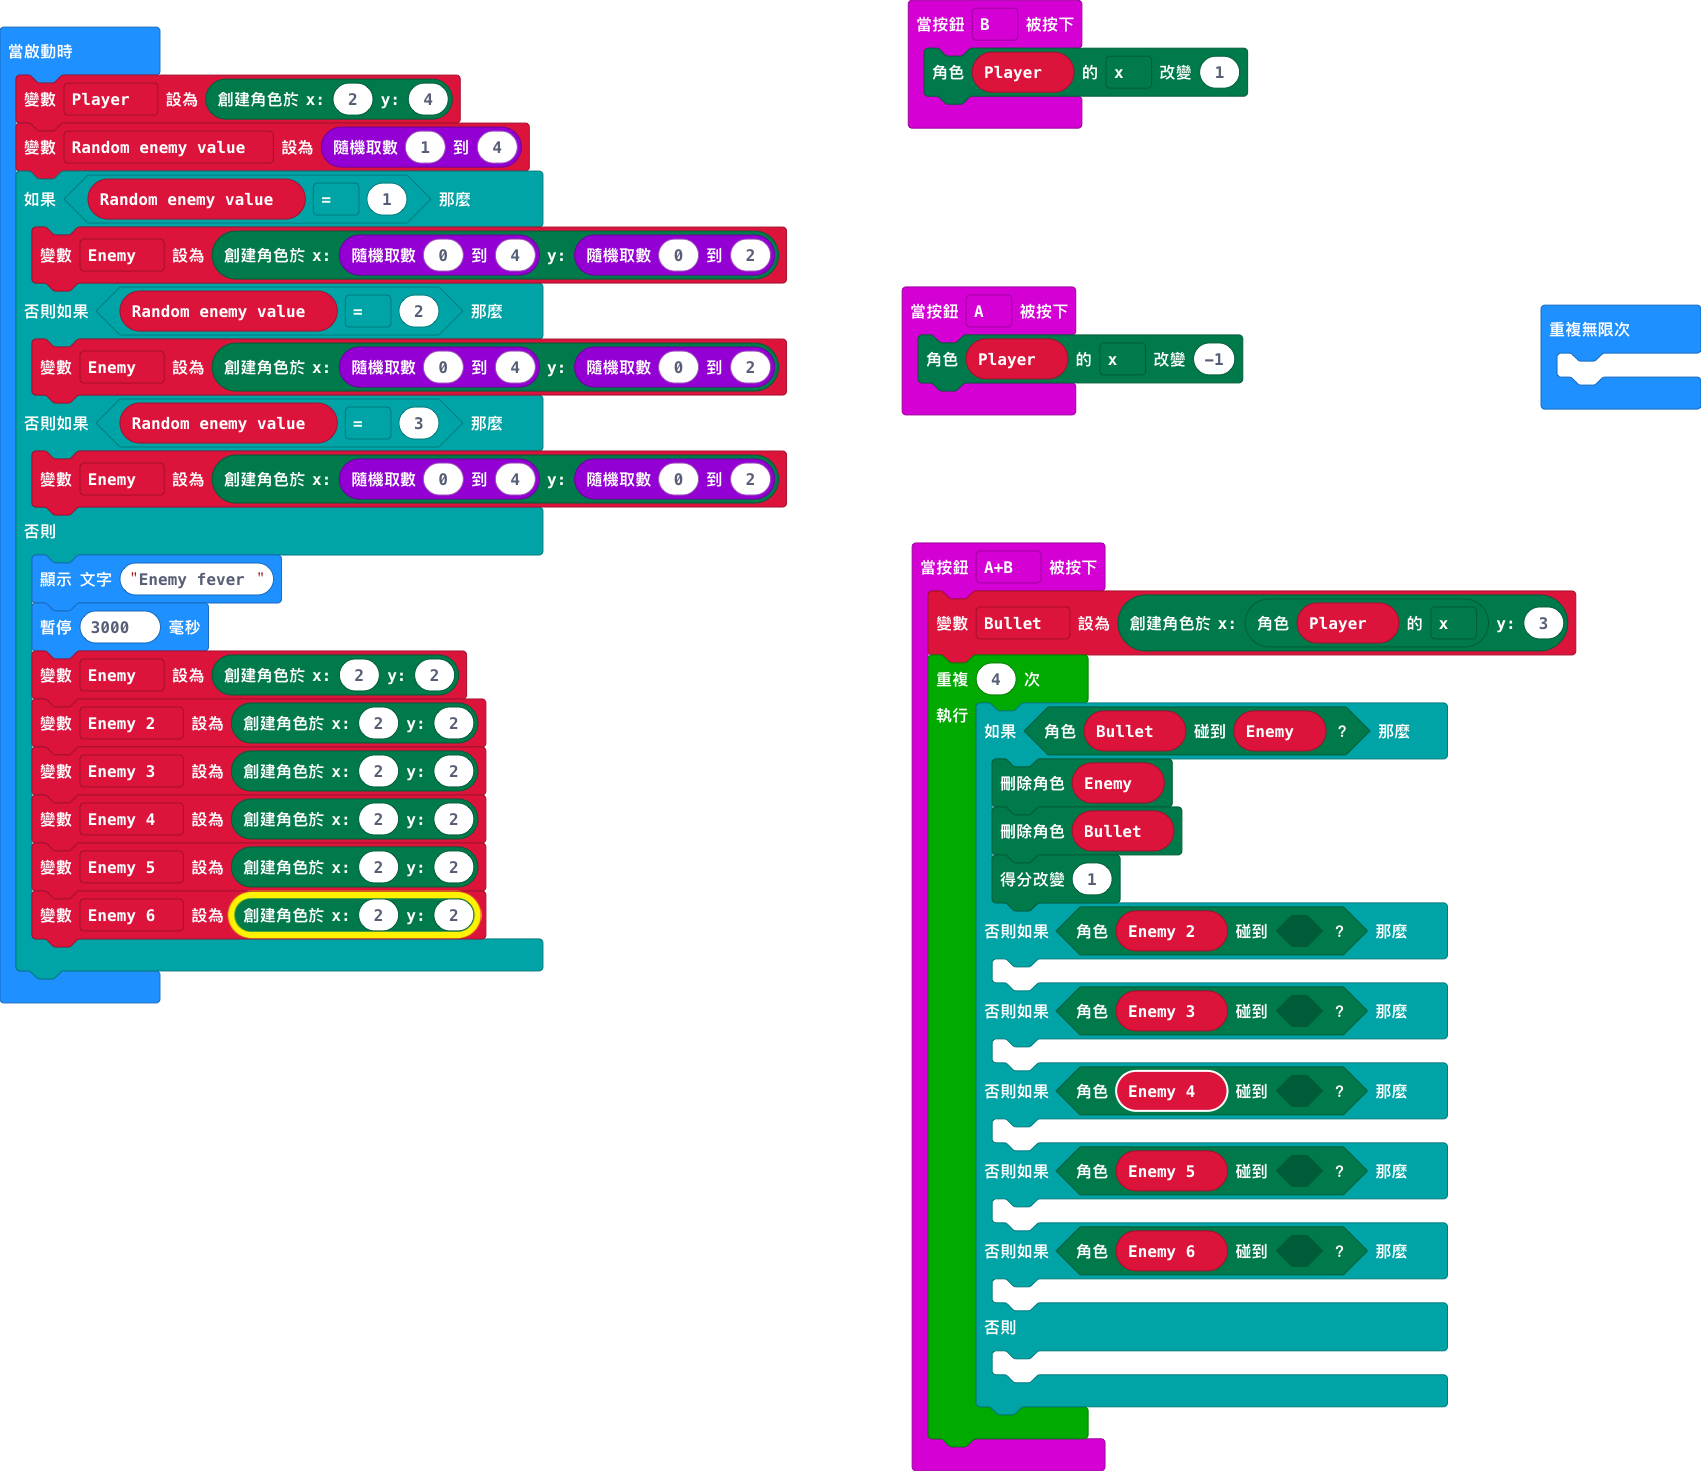
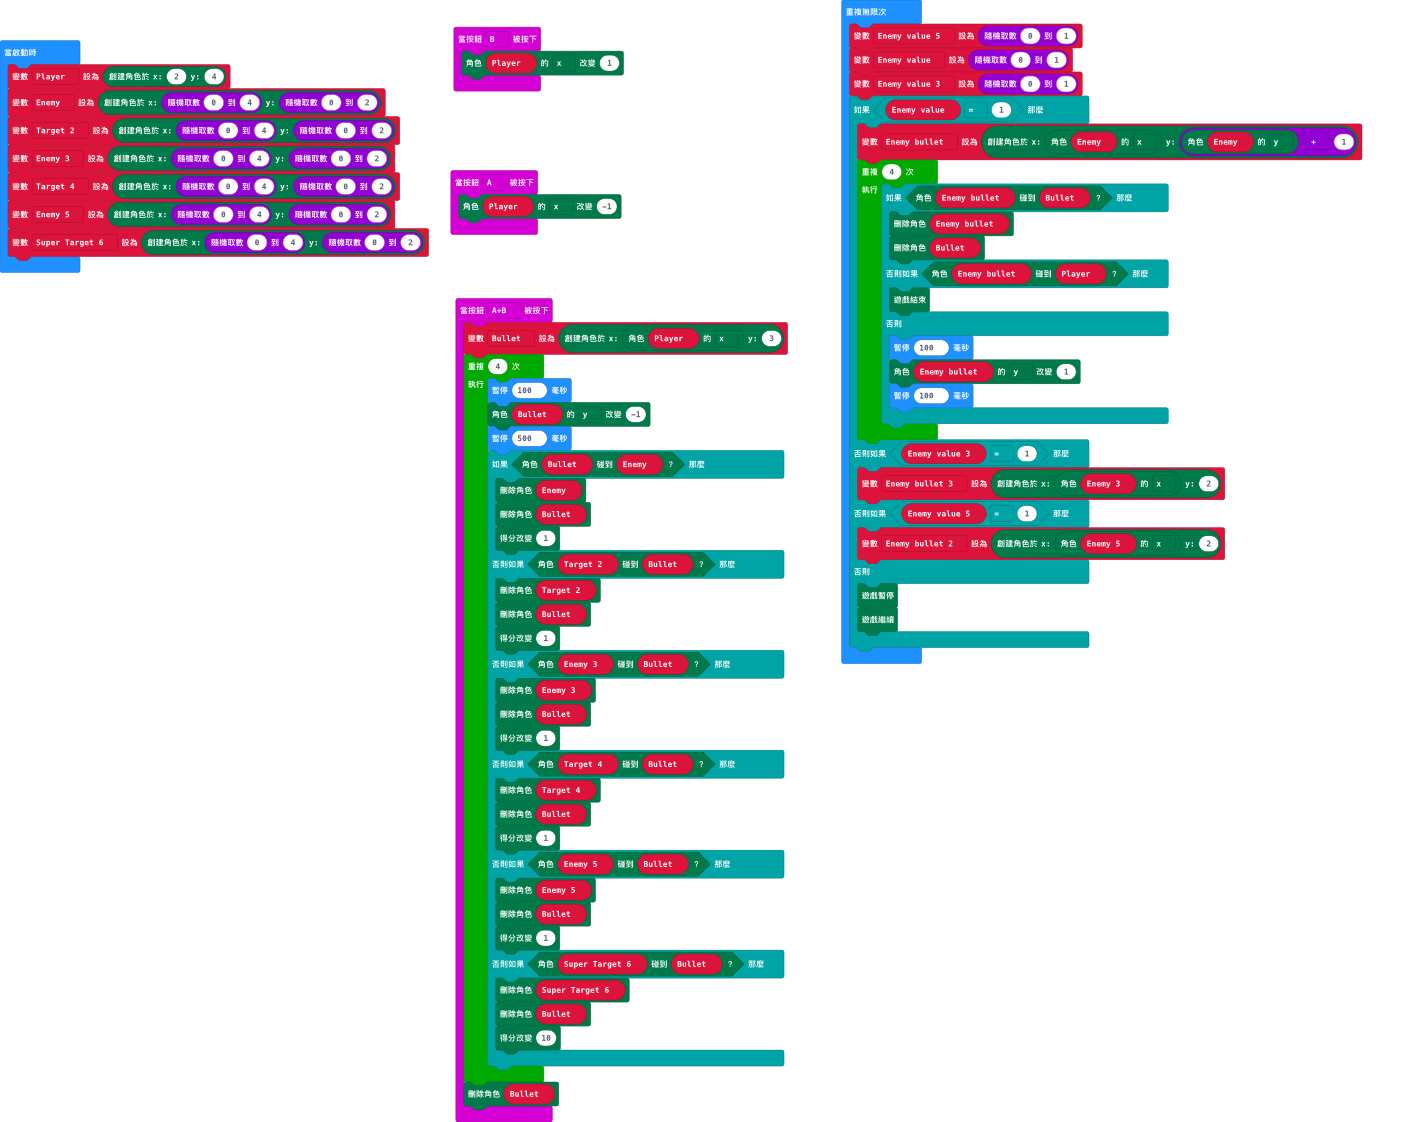
not a ultrafusion

diff --git a/main.ts b/main.ts
@@ -4,54 +4,85 @@ input.onButtonPressed(Button.A, function () {
 input.onButtonPressed(Button.AB, function () {
     Bullet = game.createSprite(Player.get(LedSpriteProperty.X), 3)
     for (let index = 0; index < 4; index++) {
+        basic.pause(100)
+        Bullet.change(LedSpriteProperty.Y, -1)
+        basic.pause(500)
         if (Bullet.isTouching(Enemy)) {
             Enemy.delete()
             Bullet.delete()
             game.addScore(1)
-        } else if (Enemy_2.isTouching(null)) {
-        	
-        } else if (Enemy_3.isTouching(null)) {
-        	
-        } else if (Enemy_4.isTouching(null)) {
-        	
-        } else if (Enemy_5.isTouching(null)) {
-        	
-        } else if (Enemy_6.isTouching(null)) {
-        	
-        } else {
-        	
+        } else if (Target_2.isTouching(Bullet)) {
+            Target_2.delete()
+            Bullet.delete()
+            game.addScore(1)
+        } else if (Enemy_3.isTouching(Bullet)) {
+            Enemy_3.delete()
+            Bullet.delete()
+            game.addScore(1)
+        } else if (Target_4.isTouching(Bullet)) {
+            Target_4.delete()
+            Bullet.delete()
+            game.addScore(1)
+        } else if (Enemy_5.isTouching(Bullet)) {
+            Enemy_5.delete()
+            Bullet.delete()
+            game.addScore(1)
+        } else if (Super_Target_6.isTouching(Bullet)) {
+            Super_Target_6.delete()
+            Bullet.delete()
+            game.addScore(10)
         }
     }
+    Bullet.delete()
 })
 input.onButtonPressed(Button.B, function () {
     Player.change(LedSpriteProperty.X, 1)
 })
+let Enemy_bullet_2: game.LedSprite = null
+let Enemy_bullet_3: game.LedSprite = null
+let Enemy_bullet: game.LedSprite = null
+let Enemy_value_3 = 0
+let Enemy_value = 0
+let Enemy_value_5 = 0
 let Bullet: game.LedSprite = null
-let Enemy_6: game.LedSprite = null
+let Super_Target_6: game.LedSprite = null
 let Enemy_5: game.LedSprite = null
-let Enemy_4: game.LedSprite = null
+let Target_4: game.LedSprite = null
 let Enemy_3: game.LedSprite = null
-let Enemy_2: game.LedSprite = null
+let Target_2: game.LedSprite = null
 let Enemy: game.LedSprite = null
 let Player: game.LedSprite = null
 Player = game.createSprite(2, 4)
-let Random_enemy_value = randint(1, 4)
-if (Random_enemy_value == 1) {
-    Enemy = game.createSprite(randint(0, 4), randint(0, 2))
-} else if (Random_enemy_value == 2) {
-    Enemy = game.createSprite(randint(0, 4), randint(0, 2))
-} else if (Random_enemy_value == 3) {
-    Enemy = game.createSprite(randint(0, 4), randint(0, 2))
-} else {
-    basic.showString("Enemy fever ")
-    basic.pause(3000)
-    Enemy = game.createSprite(2, 2)
-    Enemy_2 = game.createSprite(2, 2)
-    Enemy_3 = game.createSprite(2, 2)
-    Enemy_4 = game.createSprite(2, 2)
-    Enemy_5 = game.createSprite(2, 2)
-    Enemy_6 = game.createSprite(2, 2)
-}
+Enemy = game.createSprite(randint(0, 4), randint(0, 2))
+Target_2 = game.createSprite(randint(0, 4), randint(0, 2))
+Enemy_3 = game.createSprite(randint(0, 4), randint(0, 2))
+Target_4 = game.createSprite(randint(0, 4), randint(0, 2))
+Enemy_5 = game.createSprite(randint(0, 4), randint(0, 2))
+Super_Target_6 = game.createSprite(randint(0, 4), randint(0, 2))
 basic.forever(function () {
-	
+    Enemy_value_5 = randint(0, 1)
+    Enemy_value = randint(0, 1)
+    Enemy_value_3 = randint(0, 1)
+    if (Enemy_value == 1) {
+        Enemy_bullet = game.createSprite(Enemy.get(LedSpriteProperty.X), Enemy.get(LedSpriteProperty.Y) + 1)
+        for (let index = 0; index < 4; index++) {
+            if (Enemy_bullet.isTouching(Bullet)) {
+                Enemy_bullet.delete()
+                Bullet.delete()
+            } else if (Enemy_bullet.isTouching(Player)) {
+                game.gameOver()
+            } else {
+                basic.pause(100)
+                Enemy_bullet.change(LedSpriteProperty.Y, 1)
+                basic.pause(100)
+            }
+        }
+    } else if (Enemy_value_3 == 1) {
+        Enemy_bullet_3 = game.createSprite(Enemy_3.get(LedSpriteProperty.X), 2)
+    } else if (Enemy_value_5 == 1) {
+        Enemy_bullet_2 = game.createSprite(Enemy_5.get(LedSpriteProperty.X), 2)
+    } else {
+        game.pause()
+        game.resume()
+    }
 })
